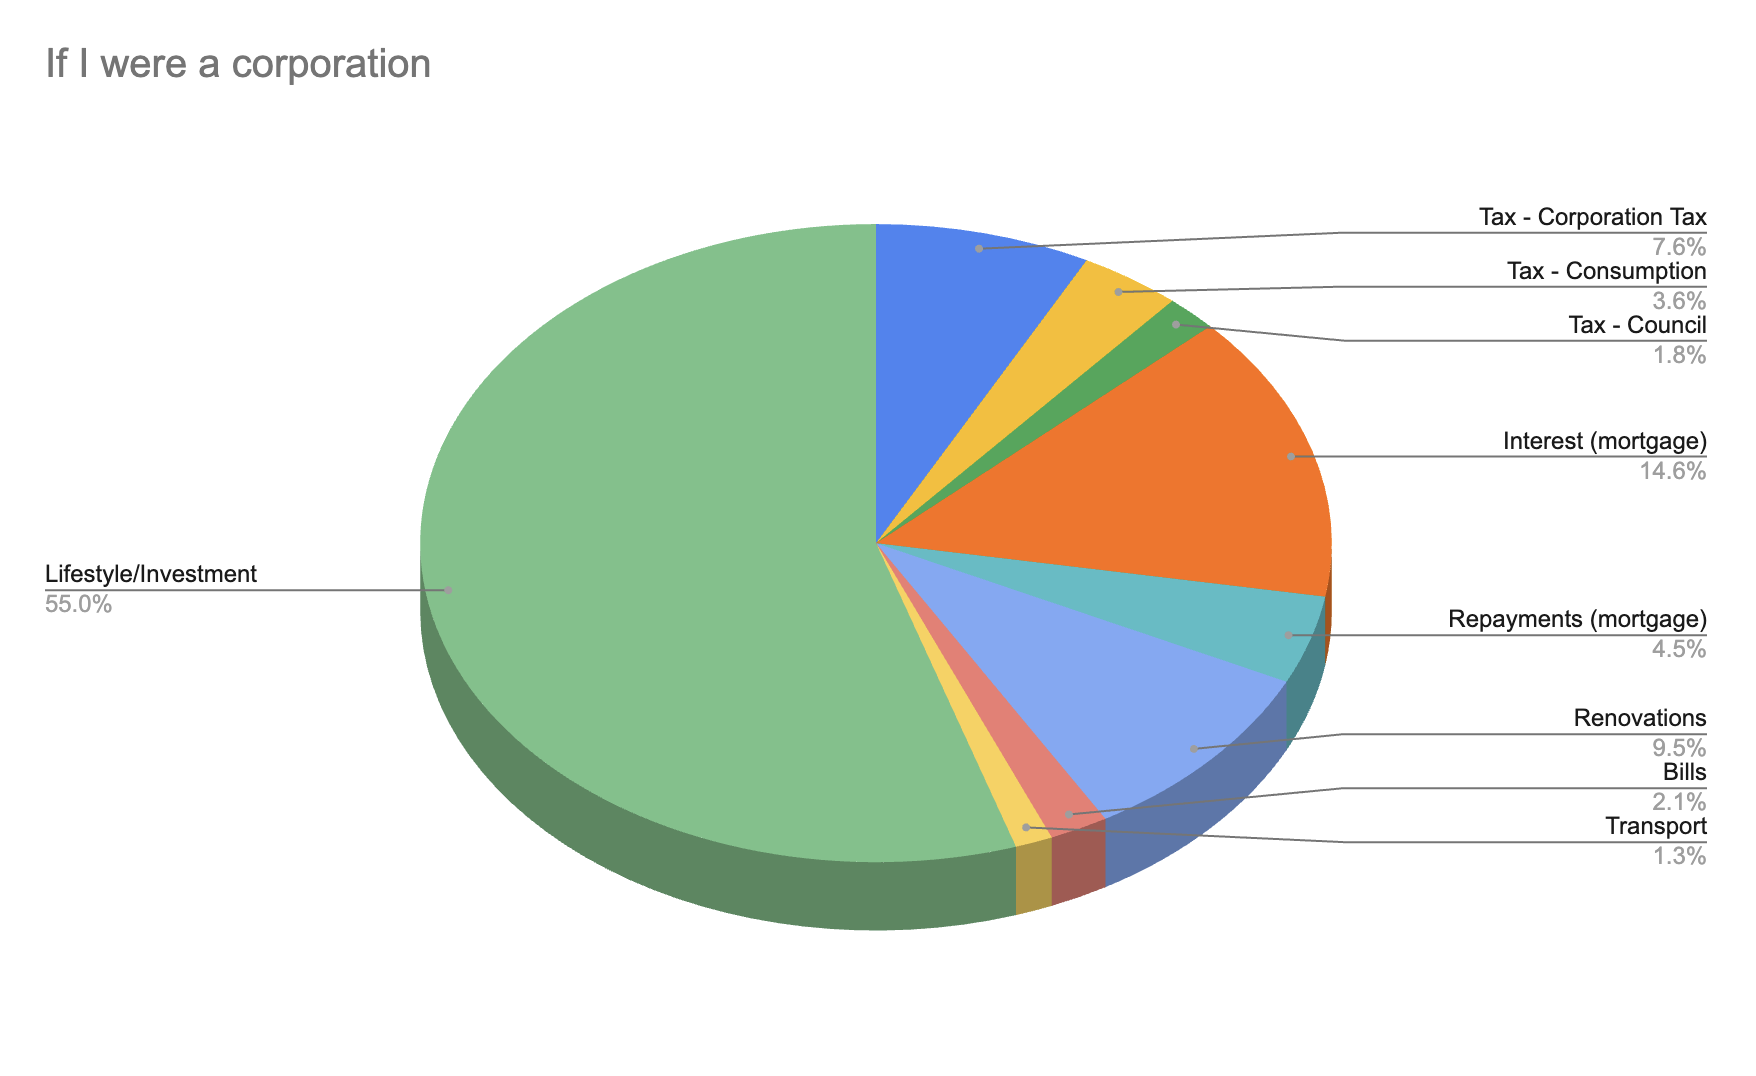
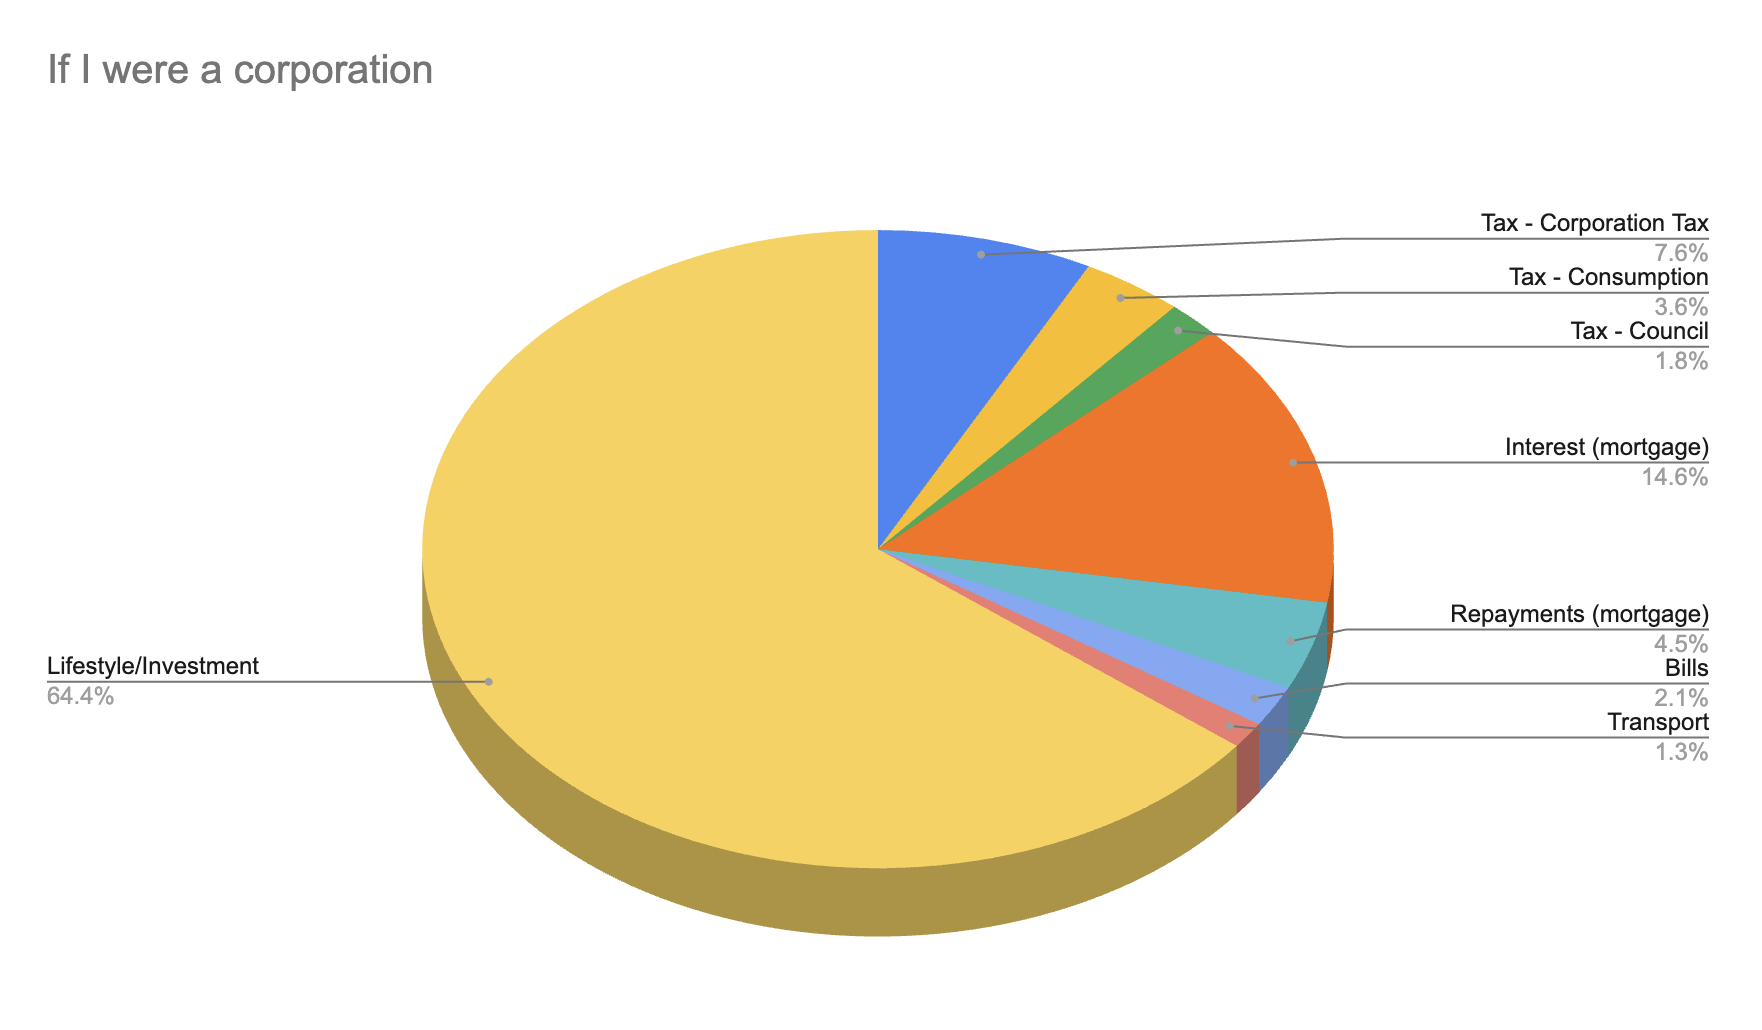
swap out images, reword some expense categories

diff --git a/content/posts/uk-tax-burden-2025/index.md b/content/posts/uk-tax-burden-2025/index.md
@@ -38,15 +38,15 @@ You'll recognise there's no "buffer/savings" section at the moment, 🤞 in a co
   - Income (25%)
   - Consumption/VAT (4%)
   - Council (2%)
-- Savings/Investments **(31%)**
-  - Pension (21%)
-  - House renovations (10%)
+- Savings/Investments **(21%)**
+  - Pension
 - Housing **(20%)**
   - Mortgage Interest (15%)
   - Mortgage Capital Repayments (5%)
-- Lifestyle **(3%)**
+- Lifestyle **(13%)**
   - Eating Out/Groceries
-  - This section has been _tight_ for a while now, and will increase after House Renovation (10%).
+  - House Renovation
+  - This section has been _tight_ for a while now, and will increase after House Renovation (~10%) has finished.
 - Bills **(2%)**
   - Gas/Electricity/Phone/Wifi
 - Transport **(1%)**
@@ -68,7 +68,7 @@ I haven't included:
 
 - Import tariffs
 - Road Tax
-- Any other erroneous tax on specific items that I didn't want to calulate
+- Any other erroneous tax on specific items that I didn't want to calculate
 
 Total Tax Burden as an individual: **~43%**
 Total Cost of Living: **~67%**
@@ -86,6 +86,8 @@ Disclaimer: I'm not an accountant, and this is a bit of a stretched example rely
 But the general idea of it is, if an expense is vital for a company, it should be deducted from the tax liability of that company.
 Whereas if an expense is vital for a person, it cannot be tax deductible.
 
+Interestingly, you could arguably question whether an employee's income tax should ultimately just fall as a consumption tax on human capital for a corporation (i.e. Employers NI), but as the incentive should be to have companies employing people, I think this is hard to justify.
+
 Tax burdens as a corporation: **~13%**
 Total Cost of Existence: **~36%**
 
@@ -99,12 +101,14 @@ Most people in the UK have absolutely no idea how much tax they are spending, or
 
 I am personally hoping for (though not expecting):
 
-- Simplification of the tax system + reducing barriers to growth
+- Simplification of the tax system + reducing regulatory barriers to growth
+  - See: [UK Foundations Whitepaper](https://ukfoundations.co/) outlines several blockers.
 - Better public understanding of the true cost of government
+  - Even better, a reduction in wasteful or too-generous public spending
 - Policies that address wealth inequality and social mobility
-- Investment in public services that provide real value
+  - See: [Fairer Share](https://fairershare.org.uk/) as one potential tax change targeting "council tax" reform.
 
-But my concern is that we'll see more of the same: hidden tax increases, corporate tax cuts, and a growing burden on the average worker.
+But my concern is that we'll see more of the same: hidden tax increases, blissful ignorance of state inefficiencies, corporate tax cuts, and a growing burden on the average worker.
 
 ---
 
